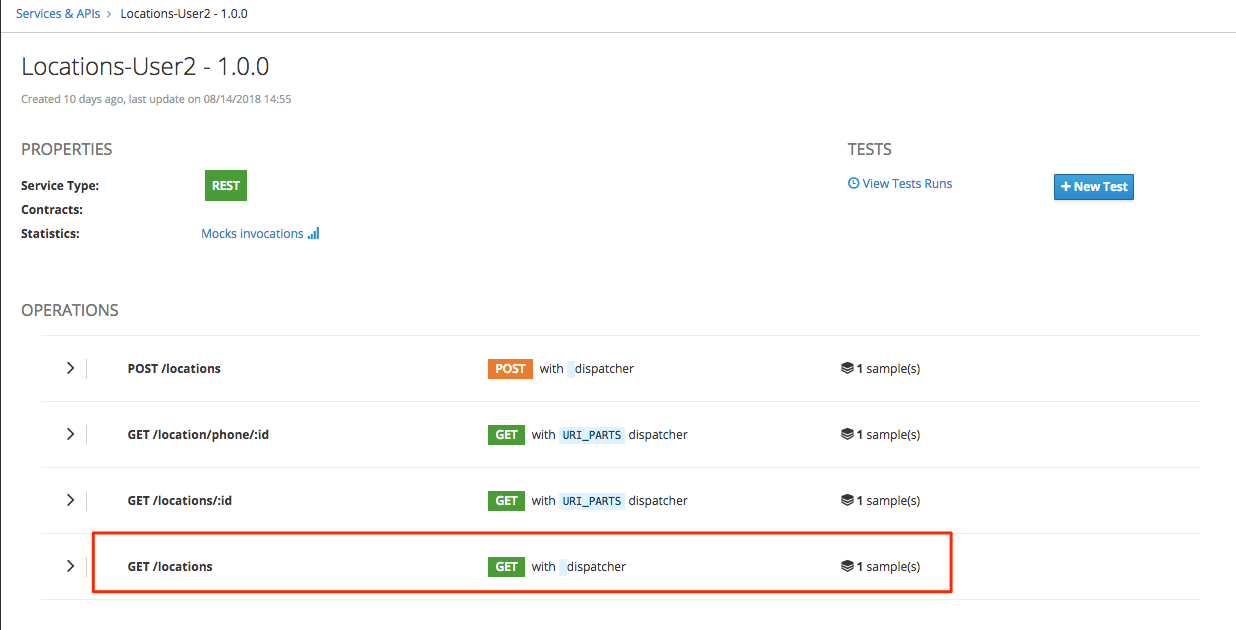
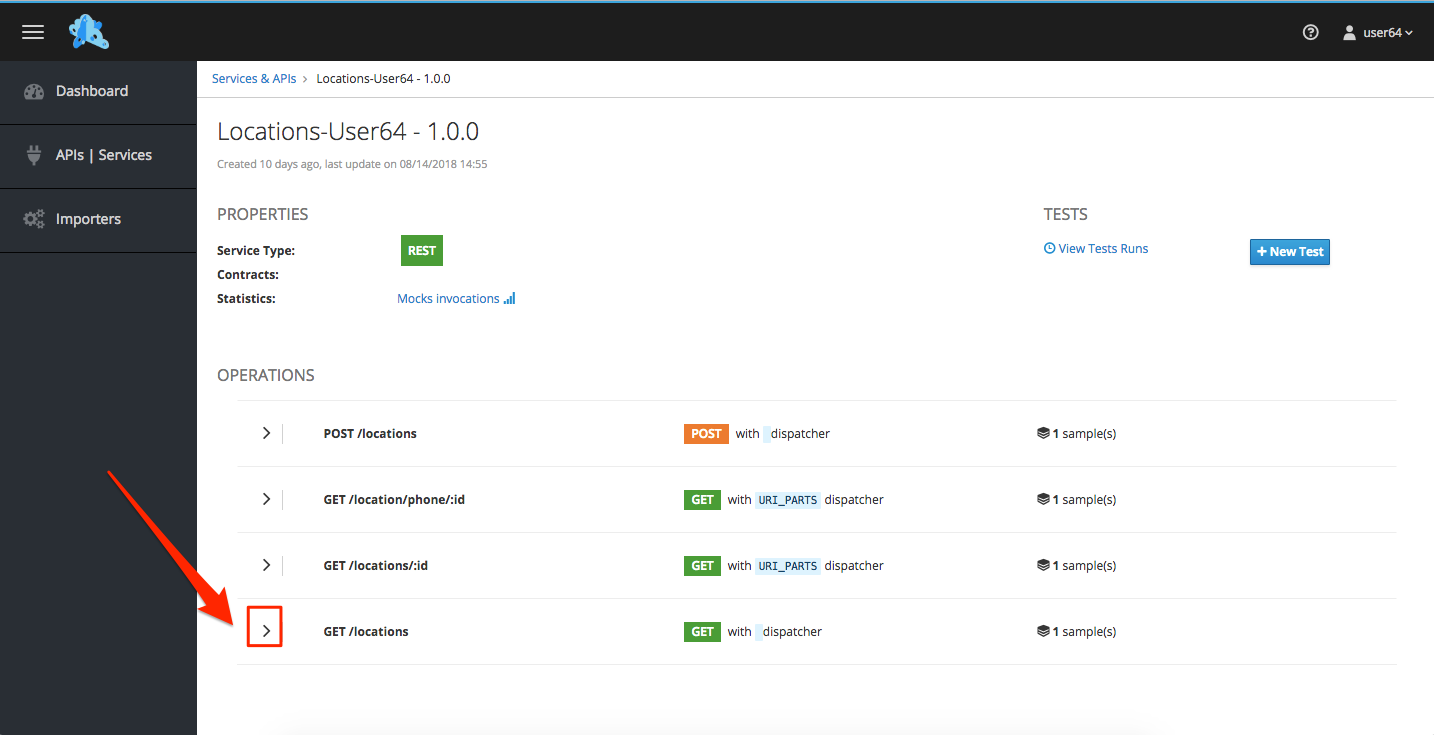
update lab02 readme

diff --git a/docs/labs/developer-track/lab02/README.md b/docs/labs/developer-track/lab02/README.md
@@ -170,11 +170,11 @@ Follow this instructions to set up the repository.
 
 1. Click **Close** to dismiss the dialog.
 
-1. This is your new REST mock service based on the OpenAPI definition you just loaded to Microcks. Click the **Operation GET /locations** link to check the example under that operation.
+1. This is your new REST mock service based on the OpenAPI definition you just loaded to Microcks. Click on the arrow to expand the **GET /locations** operation.
 
     ![mock-mock-service](images/mock-19.png "Mock Service")
 
-1. You can check that the example we added to the definition in [Lab 1](lab01.md) will be used to return the mock values. Copy and save the **Mocks URL**, we will use that endpoint to test the REST mock service.
+1. You can check that the example we added to the definition in [Lab 1](lab01.md) will be used to return the mock values. Scroll down, copy and save the **Mocks URL**, we will use that endpoint to test the REST mock service.
 
     ![mock-mock-operation](images/mock-20.png "Mock Operation")
 
@@ -189,10 +189,10 @@ We now have a working REST mock service listening for requests. We will use an o
     https://onlinecurl.com/
     ```
 
-1. Enter the following URL: **http://microcks.dil.opentry.me + {{your-user-api-mocks-url}}**. Remember to replace your user number. It should look like this:
+1. Copy and paste the Mock URL from earlier step. It should look like 
 
     ```bash
-    http://microcks.dil.opentry.me/rest/Locations-User2/1.0.0/locations
+    http://microcks.dil.opentry.me/rest/Locations-UserX/1.0.0/locations
     ```
 
 1. Click the **START YOUR CURL** button.
